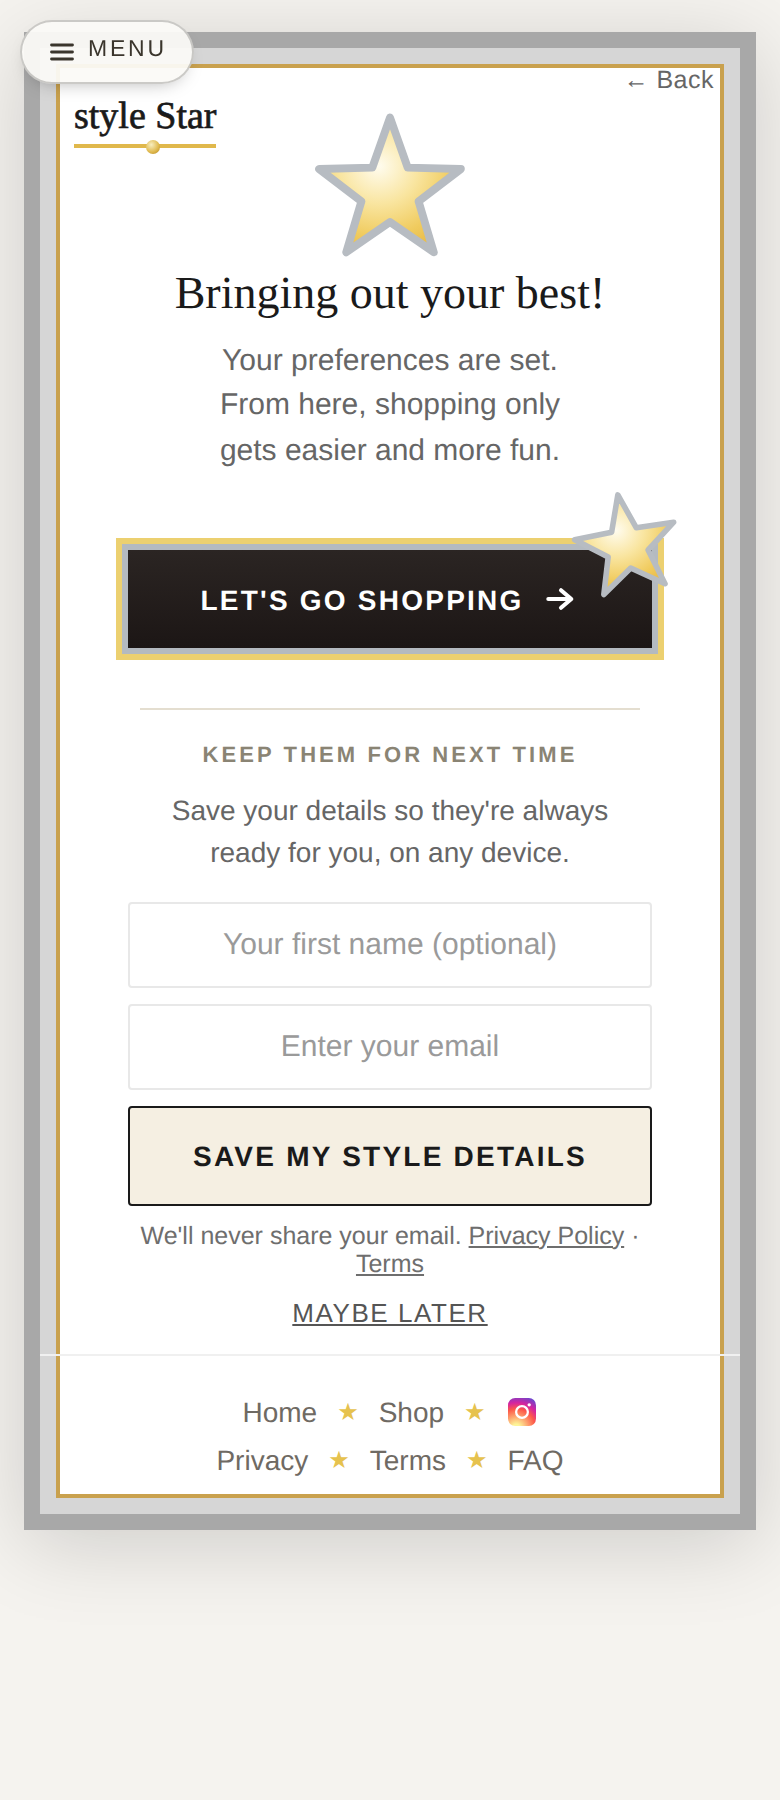
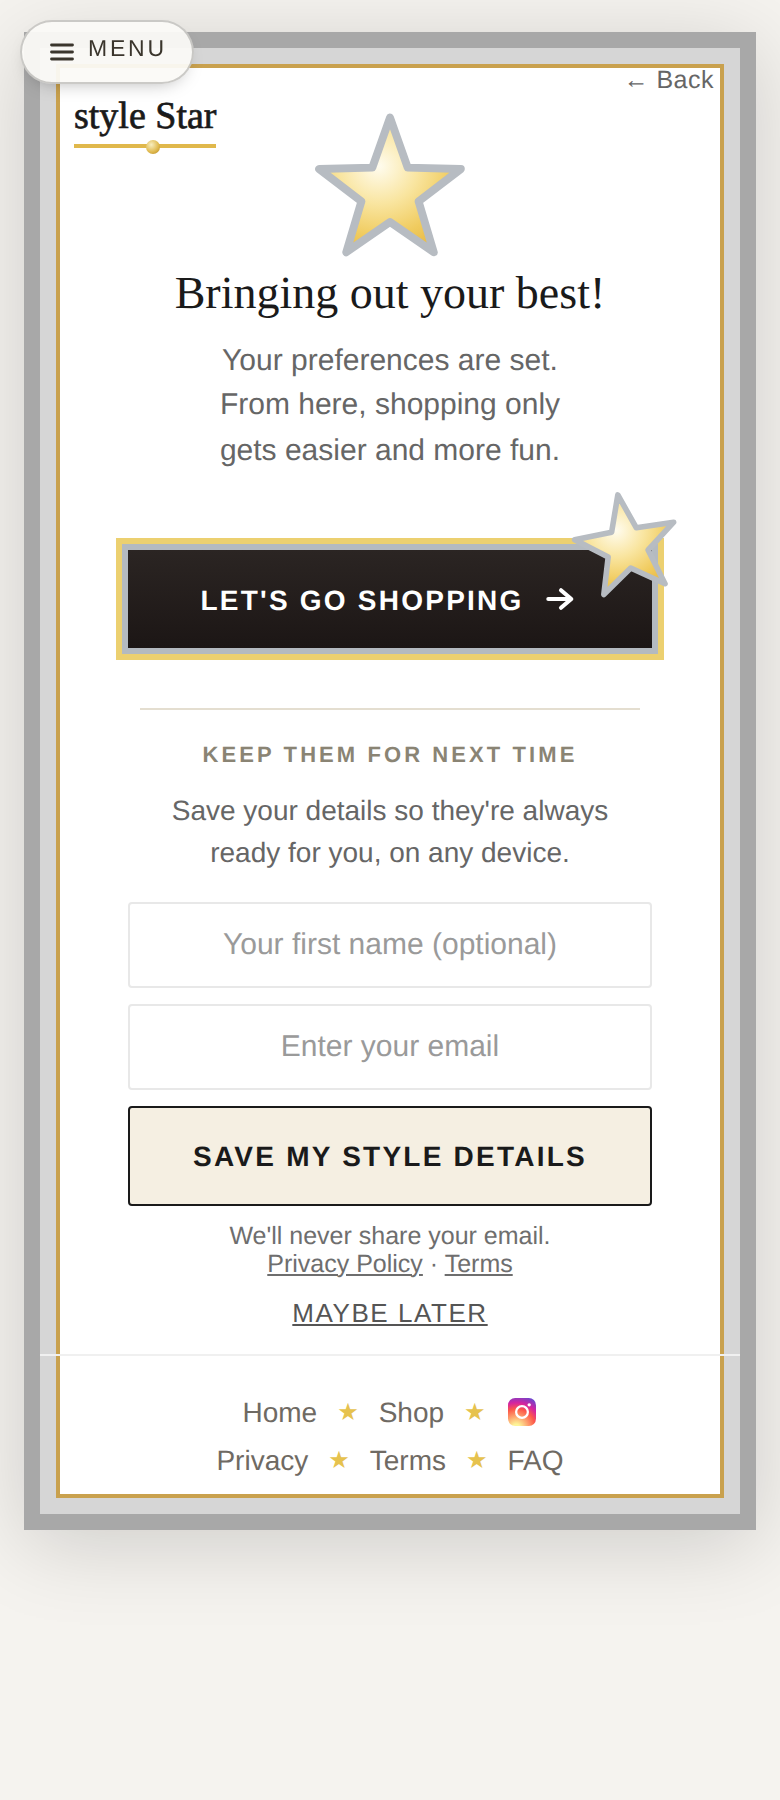
Keep Privacy Policy and Terms on one line together
Her catch on the built screen: "Privacy Policy ·" sat on one line with a
lonely "Terms" beneath it. The two links are one thing and should break as
one, so the line now breaks after the sentence instead of between them.

nowrap rather than a hardcoded break, so a wider container still holds the
whole line, and applied to all four copies of that sentence.

The first measurement reported a false failure: getClientRects() on an
inline element returns a rect per child box, so three fragments sharing one
top looked like three lines. The assertion counts unique tops now, which is
the same lesson this file has learned twice before.

Claude-Session: https://claude.ai/code/session_015mMi97VV7vJ4zSuLNVboD7

Changed region(s): [[0.2769, 0.6844, 0.8, 0.7156], [0.1846, 0.6844, 0.2462, 0.7156]]

diff --git a/index.html b/index.html
@@ -1013,6 +1013,14 @@ html.edit-velvet,html.edit-velvet body{background:#0E7F8C}
    star lands on her text. Found by rendering, not by reading. */
 #s-pref-done .pref-shop-now{margin-top:30px}
 #s-pref-done .pref-keep{border-top:1px solid #e4ded0;max-width:250px;margin:20px auto 14px;padding-top:16px}
+/* ▶ Her catch, 2026-08-15 night: "Privacy Policy ·" sat on one line with a
+   lonely "Terms" underneath. The two links are ONE thing and should break as
+   one, so the line now breaks after the sentence instead of between them.
+   ⚠ nowrap rather than a hardcoded <br>: where the whole line fits (a wider
+   container, a shorter language) it still holds one line. All FOUR copies of
+   this sentence carry it — grep "never share your email". Measured: the links
+   need ~132px at 12.5px, and the narrowest container here is 250px. */
+.priv-links{white-space:nowrap}
 #s-pref-done .pref-keep-lbl{font:600 11px/1.3 'DM Sans',sans-serif;letter-spacing:.14em;color:#8a8474;margin-bottom:9px}
 #s-pref-done .pref-keep-note{font-size:14px;color:#666;line-height:1.5;text-wrap:balance}
 #prefSavedSub{margin-bottom:0.7rem}
@@ -3031,7 +3039,7 @@ body.ss-play .hm-entrance{animation:ssOverlayOut .55s ease 1.6s forwards}
         <input class="kin" id="keepEmail" type="email" placeholder="Enter your email"/>
         <button class="kbtn" onclick="saveResKeep()">Save my style details</button>
         <div class="keep-msg" id="keepMsg"></div>
-        <div class="priv">We'll never share your email. <u onclick="showPrivacy()">Privacy Policy</u> &middot; <u onclick="showTerms()">Terms</u></div>
+        <div class="priv">We'll never share your email. <span class="priv-links"><u onclick="showPrivacy()">Privacy Policy</u> &middot; <u onclick="showTerms()">Terms</u></span></div>
       </div>
 
       <div class="retake-wrap"><button class="retake" onclick="retakeQuiz()"><span class="rt-tile"><svg viewBox="0 0 24 24" fill="none" stroke="#fff" stroke-width="1.9" stroke-linecap="round"><path d="M4 7h7M15 7h5M4 17h4M12 17h8"/><circle cx="13" cy="7" r="2.1" fill="#fff"/><circle cx="10" cy="17" r="2.1" fill="#fff"/></svg></span>Retake the Quiz<svg class="rt-arr" viewBox="0 0 24 24"><path d="M4 12h13"/><path d="M12 6.5 18.5 12 12 17.5"/></svg></button></div>
@@ -3323,7 +3331,7 @@ body.ss-play .hm-entrance{animation:ssOverlayOut .55s ease 1.6s forwards}
         <input class="kin" id="keepEmailPhoto" type="email" placeholder="Enter your email"/>
         <button class="kbtn" onclick="saveResKeep('keepNamePhoto','keepEmailPhoto','keepMsgPhoto')">Save &amp; remember me</button>
         <div class="keep-msg" id="keepMsgPhoto"></div>
-        <div class="priv">We'll never share your email. <u onclick="showPrivacy()">Privacy Policy</u> &middot; <u onclick="showTerms()">Terms</u></div>
+        <div class="priv">We'll never share your email. <span class="priv-links"><u onclick="showPrivacy()">Privacy Policy</u> &middot; <u onclick="showTerms()">Terms</u></span></div>
       </div>
 
       <!-- Quiz invite — shown ONLY to non-quiz-takers (their conversion CTA); sits at the bottom -->
@@ -3392,7 +3400,7 @@ body.ss-play .hm-entrance{animation:ssOverlayOut .55s ease 1.6s forwards}
         <button class="btn-p" id="prefSaveBtn" style="margin-top:0;max-width:280px" onclick="savePrefProfile()">Save my style details</button>
       </div>
       <div id="prefSaveMsg" style="font-size:13px;color:#777;margin-top:8px"></div>
-      <div style="font-size:12.5px;color:#6e6e6e;margin-top:6px">We'll never share your email. <span onclick="showPrivacy()" style="text-decoration:underline;cursor:pointer">Privacy Policy</span> &middot; <span onclick="showTerms()" style="text-decoration:underline;cursor:pointer">Terms</span></div>
+      <div style="font-size:12.5px;color:#6e6e6e;margin-top:6px">We'll never share your email. <span class="priv-links"><span onclick="showPrivacy()" style="text-decoration:underline;cursor:pointer">Privacy Policy</span> &middot; <span onclick="showTerms()" style="text-decoration:underline;cursor:pointer">Terms</span></span></div>
       <button class="retake" onclick="prefDone()" style="margin-top:10px">Maybe later</button>
     </div>
 
@@ -3901,7 +3909,7 @@ body.ss-play .hm-entrance{animation:ssOverlayOut .55s ease 1.6s forwards}
       <button class="btn-p" id="sheetSaveBtn" style="margin-top:0;max-width:280px" onclick="saveFromSheet()">Save my style details</button>
     </div>
     <div id="sheetMsg" style="font-size:13px;color:#777;margin-top:8px"></div>
-    <div style="font-size:12.5px;color:#6e6e6e;margin-top:6px">We'll never share your email. <span onclick="showPrivacy()" style="text-decoration:underline;cursor:pointer">Privacy Policy</span> &middot; <span onclick="showTerms()" style="text-decoration:underline;cursor:pointer">Terms</span></div>
+    <div style="font-size:12.5px;color:#6e6e6e;margin-top:6px">We'll never share your email. <span class="priv-links"><span onclick="showPrivacy()" style="text-decoration:underline;cursor:pointer">Privacy Policy</span> &middot; <span onclick="showTerms()" style="text-decoration:underline;cursor:pointer">Terms</span></span></div>
     <button class="retake" onclick="dismissSaveSheet()" style="margin-top:10px">Maybe later</button>
   </div>
 </div>

diff --git a/scratchpad/prefdone.js b/scratchpad/prefdone.js
@@ -115,6 +115,23 @@ function ok(name, cond, extra) {
     }, [LINES]);
     ok('★ ' + w + ': no straggling last word in the celebration line (' + m.lastLineWords + ' words, ' + m.subLines + ' lines)', m.lastLineWords >= 2, JSON.stringify(m));
     ok(w + ': no sideways page scroll', m.scroll);
+    // ★ Her second catch: "Privacy Policy ·" sat alone with "Terms" beneath it.
+    // ⚠ COUNT UNIQUE TOPS, NOT RECTS — getClientRects() on an inline element
+    // returns a rect per CHILD box as well, so the three fragments of this span
+    // look like three lines when they are one. That trap cost a false failure
+    // here; it is the same rect-per-element lesson as 2026-08-10/11.
+    const pv = await p2.evaluate(() => {
+      const d = [...document.querySelectorAll('#prefSaveBlock div')]
+        .find(x => /never share your email/.test(x.textContent) && x.children.length);
+      const links = d.querySelector('.priv-links');
+      const tops = [...links.getClientRects()].map(r => Math.round(r.top));
+      const uniq = []; tops.forEach(t => { if (!uniq.some(u => Math.abs(u - t) < 6)) uniq.push(t); });
+      return {lineOfLinks: uniq.length, ws: getComputedStyle(links).whiteSpace,
+              boxW: Math.round(d.getBoundingClientRect().width),
+              linkW: Math.round(links.getBoundingClientRect().width)};
+    });
+    ok('★ ' + w + ': Privacy Policy and Terms sit on ONE line together', pv.lineOfLinks === 1, JSON.stringify(pv));
+    ok(w + ': the links still fit their box (' + pv.linkW + ' of ' + pv.boxW + 'px)', pv.linkW <= pv.boxW, JSON.stringify(pv));
     if (w !== 390) await c2.close();
   }
   await ctx.close();

diff --git a/CLAUDE.md b/CLAUDE.md
@@ -72,7 +72,7 @@ noticed at all and was the most serious.** Read screenshots for what they SHOW, 
   stashing the change and watching it fail identically.** Rewritten to run that claim on a **catalog-free
   slot** (to2) so catalog growth in any slot can never break it again. ▶ **Always stash-and-rerun before
   believing a suite failure is yours.**
-- **Suites: `sizeveto.js` 42 (new) · `prefdone.js` 24 (new) · nameparity 25 (was 23, +2 and one deliberate rewrite) · curated 65 ·
+- **Suites: `sizeveto.js` 42 (new) · `prefdone.js` 32 (new) · nameparity 25 (was 23, +2 and one deliberate rewrite) · curated 65 ·
   searchtune 70 · searchchat 57 · cowork3 69 · wladd 102 · storedepth 17 · e2e 29 · hubs 49 · affq 40 — all green.**
 - ✅⭐ **THE "MAYBE LATER" DEAD END IS FIXED — her pick "A" from four renders, built same session.** Finishing
   Refine without giving an email landed her back on the **portrait she had already read**. ▶ **THE DIAGNOSIS
@@ -96,7 +96,14 @@ noticed at all and was the most serious.** Read screenshots for what they SHOW, 
   margins, which could not have fixed a widow. **Measured 5 words on the last line at 390/375/360/320.**
   ⚠ The shortened sub is a **Claude draft** ("Your preferences are set. From here, shopping only gets easier
   and more fun.") — the old sentence ended by selling the email save, which read oddly once shopping led.
-  **She has not blessed the wording; one string in the markup.** New `scratchpad/prefdone.js` **24 checks**.
+  **She has not blessed the wording; one string in the markup.**
+  ✍ **Her second catch: "Privacy Policy ·" sat alone with "Terms" stranded below it.** Fixed by keeping the
+  two links together (`.priv-links{white-space:nowrap}`) so the line breaks after the SENTENCE instead of
+  between them — ⚠ **nowrap rather than a hardcoded `<br>`, so a wider container still holds one line**, and
+  applied to **all FOUR copies** of that sentence (grep `never share your email`).
+  ⚠ **THE RECT-PER-ELEMENT TRAP COST A FALSE FAILURE HERE, third time in this file:** the fix looked broken
+  because `getClientRects()` on the inline span returned THREE rects — one per child box — when all three
+  shared the same `top`. **Count UNIQUE tops, never rects.** New `scratchpad/prefdone.js` **32 checks**.
 - ▶ **STILL OPEN ON IT, her eye:** how it feels on her phone, and the drafted sub above.
 - ▶ **SUPERSEDED — the original diagnosis, kept for the reasoning:**
   Finishing Refine without giving an email lands her back on the **portrait she already read**. ▶ **THE
